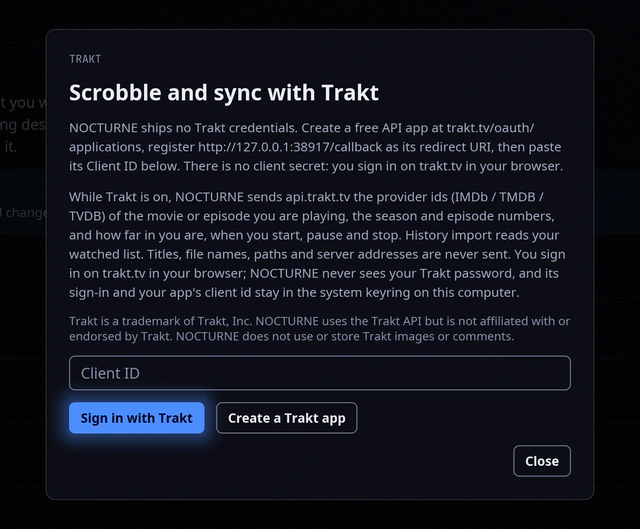
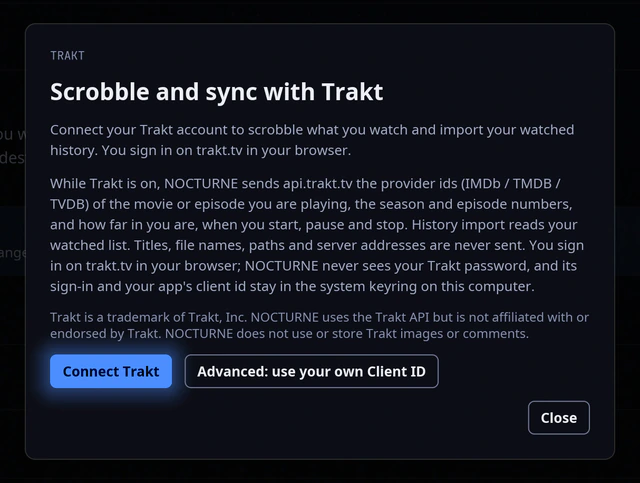
Website: 0.5 captures for Your look (Themes, Marquee, Feed, Server UI, Sections) and the default Trakt dialog
Adds 3840x2160 headless captures of Settings, Themes, Home under the Marquee and Feed examples, Home in Server UI with one server in the source filter, and the Sections editor as a close-up; replaces the Trakt close-up with the default dialog (Connect Trakt). Wires them into the Your look and Across services scenes and documents the capture setup in the README.

diff --git a/website/src/lib/components/Tour.svelte b/website/src/lib/components/Tour.svelte
@@ -59,7 +59,7 @@
 </script>
 
 <!-- Ten scenes. The first is the story (many sources, one library); the others are large stills from the app with
-     their copy set as a subtitle. 0.4 stills are 3840x2160 headless captures (see README). -->
+     their copy set as a subtitle. 0.4 and 0.5 stills are 3840x2160 headless captures (see README). -->
 <div id="tour">
   <section class="pb-[clamp(110px,14vw,220px)]" aria-labelledby="s0">
     <header class="reveal wrap mb-[clamp(32px,4vw,56px)] text-center"><span class="role">Scene 1</span><h2 id="s0" class="scene-title">One library</h2><Next class="mt-5 ml-0" /></header>
@@ -154,7 +154,7 @@
         <div class="rule pt-5"><dt class="role">{t}</dt><dd class="m-0 mt-3 text-ink-2">{d}{#if credit}<span class="mt-3 block text-sm text-ink-3">{credit}</span>{/if}</dd></div>
       {/each}
     </dl>
-    <figure class="reveal mx-auto mt-14 mb-0 w-[min(760px,100%-40px)]"><Shot name="trakt-crop" sizes={narrow} /><figcaption class="mt-4 text-center text-sm text-ink-2">Trakt's advanced option: your own Trakt app's Client ID, then a sign-in in your browser. By default the dialog shows one button, Connect Trakt.</figcaption></figure>
+    <figure class="reveal mx-auto mt-14 mb-0 w-[min(760px,100%-40px)]"><Shot name="trakt-crop" sizes={narrow} /><figcaption class="mt-4 text-center text-sm text-ink-2">Connect Trakt: one click, then a sign-in on trakt.tv in your browser. Your own Trakt app's Client ID stays an advanced option.</figcaption></figure>
   </section>
 
   <section class="pb-[clamp(110px,14vw,220px)]" aria-labelledby="s4">
@@ -177,12 +177,21 @@
 
   <section class="pb-[clamp(110px,14vw,220px)]" aria-labelledby="s9">
     <header class="reveal wrap mb-[clamp(32px,4vw,56px)] text-center"><span class="role">Scene 9</span><h2 id="s9" class="scene-title">Your look</h2><Next v="0.5.0" class="mt-5 ml-0" /></header>
+    <div class="reveal mx-auto w-[min(1320px,100%-40px)]"><Shot name="themes" sizes={framed} /></div>
     <p class="subtitle">Themes are CSS that NOCTURNE reads itself and draws natively, with no browser inside. They restyle NOCTURNE's own parts, in Settings, Themes.</p>
+    <div class="stagger mx-auto mt-[clamp(56px,7vw,96px)] grid w-[min(1520px,100%-40px)] gap-6 md:grid-cols-2">
+      <figure class="m-0"><Shot name="marquee" sizes={two} /><figcaption class="mt-4 text-sm text-ink-2">Marquee: a billboard under a see-through header and wide carousels without captions.</figcaption></figure>
+      <figure class="m-0"><Shot name="feed" sizes={two} /><figcaption class="mt-4 text-sm text-ink-2">Feed: no billboard, a grid of thumbnails with the title and details below.</figcaption></figure>
+    </div>
     <dl class="stagger mx-auto mt-14 grid w-[min(1000px,100%-40px)] gap-x-14 gap-y-10 md:grid-cols-2">
       {#each look as [t, d]}
         <div class="rule pt-5"><dt class="role">{t}</dt><dd class="m-0 mt-3 text-ink-2">{d}</dd></div>
       {/each}
     </dl>
+    <div class="stagger wrap mt-[clamp(56px,7vw,96px)] grid gap-x-8 gap-y-12 md:grid-cols-[minmax(0,3fr)_minmax(0,2fr)] md:items-end">
+      <figure class="m-0"><Shot name="server-ui" sizes={left} /><figcaption class="mt-4 text-sm text-ink-2">Server UI: with Living room alone in the source filter, Home follows that server's layout.</figcaption></figure>
+      <figure class="m-0"><Shot name="sections-crop" sizes={right} /><figcaption class="mt-4 text-sm text-ink-2">Settings, Sources, Sections: the server's home sections for your account, editable once server changes are on.</figcaption></figure>
+    </div>
     <p class="mx-auto mt-10 mb-0 w-[min(1000px,100%-40px)] text-sm text-ink-3">Not arbitrary web CSS: each page keeps its structure, and a Jellyfin web theme applies only partly, mostly its colours, radii and font. Letter spacing is read but not drawn; density, type size and backdrop blur are applied approximately.</p>
   </section>
 

diff --git a/website/src/lib/site.js b/website/src/lib/site.js
@@ -66,7 +66,12 @@ const ALT = {
   "smart-menu-crop": "The Smart menu in the header: Unwatched 4K movies, Added this week, Unwatched shows, Continue watching, Top rated not watched, Manage smart collections",
   "downloads-crop": "The Downloads panel: Northbound Lights downloading, 50 MB of 417 MB, with Pause and Cancel",
   "hdr-crop": "The HDR question in the player: Play here in SDR, or Open in HDR pop-out window, with Remember my choice",
-  "trakt-crop": "The Trakt dialog with your own Client ID: what is sent, an empty Client ID field, Sign in with Trakt and Create a Trakt app",
+  "trakt-crop": "The Trakt dialog: what is sent to Trakt, then Connect Trakt and Advanced: use your own Client ID",
+  themes: "Settings, Themes: the examples Marquee and Feed, the saved themes with Marquee active, a theme per server, and the Marquee stylesheet in the editor",
+  marquee: "Home with the Marquee theme: a full-bleed billboard under a see-through header, a red accent and wide thumbnails without captions",
+  feed: "Home with the Feed theme: no billboard, Continue watching as a grid of thumbnails with the title and details below",
+  "server-ui": "Home in the server's layout with only Living room in the source filter: the billboard, then the server's My media row of its libraries",
+  "sections-crop": "Home of Living room: the server's home sections, each with On or Off and up and down arrows, view-only until server changes are on",
 };
 // Image props for one screenshot: src (largest), srcset, intrinsic size and alt, so layout never shifts.
 export function shot(key) {

diff --git a/website/scripts/make-assets.py b/website/scripts/make-assets.py
@@ -18,7 +18,7 @@ WIDTHS = (640, 1280, 1920, 2560, 3840)
 # The full-bleed stills are up to 1680 css px (3360 px at 2x), so they keep the native 3840.
 MAX_W = {"01-home": 3840, "06-playback": 3840}
 DEFAULT_MAX = 2560
-SKIP_FULL = {"picker", "05-search", "03-movie-detail", "smart-menu", "downloads", "hdr", "trakt"}  # close-ups only
+SKIP_FULL = {"picker", "05-search", "03-movie-detail", "smart-menu", "downloads", "hdr", "trakt", "sections"}  # close-ups only
 
 # Close-ups, as fractions (x0, y0, x1, y1) of the capture so they do not depend on its resolution, plus the widest
 # variant. Framed on the 3840x2160 captures; check by eye after a recapture (open sized/*-crop-*.webp).
@@ -42,8 +42,11 @@ CROPS = {
     "downloads-crop": ("downloads", (0.30, 0.30, 0.70, 0.70), 1536),
     # the HDR question in the player, 16:9
     "hdr-crop": ("hdr", (0.30, 0.30, 0.70, 0.70), 1536),
-    # the Trakt dialog over Settings (not signed in)
-    "trakt-crop": ("trakt", (0.33, 0.25, 0.67, 0.75), 1536),
+    # the default Trakt dialog over Settings (not signed in): Connect Trakt, the advanced own-Client-ID option
+    "trakt-crop": ("trakt", (0.342, 0.288, 0.658, 0.712), 1536),
+    # 0.5 captures (same setup)
+    # the Sections editor of one server (Settings, Sources), view-only while server changes are off
+    "sections-crop": ("sections", (0.355, 0.19, 0.645, 0.81), 1280),
 }
 
 

diff --git a/website/README.md b/website/README.md
@@ -2,7 +2,7 @@
 
 Static site for `nocturne.ifsvivek.in`: SvelteKit (Svelte 5, `adapter-static`, every page prerendered with `csr = false`, so no JavaScript ships) and Tailwind CSS v4, served by a Cloudflare Worker with static assets. One self-hosted font, no third-party requests.
 
-- `src/routes/` pages (`/`, `/repo`, `/privacy`, `/404`). `/repo` is the package repository page: the pacman steps (key import, the `pacman.conf` block, install) and the signing key's fingerprint, kept in one place at the top of `repo/+page.svelte` so a change to the key or the `SigLevel` line is one edit; the tests check the exact text. The repository files themselves are generated into the git-ignored `static/repo/` at deploy time, and `_headers` gives them their own `Cache-Control` (databases, signatures and the key `no-cache`; packages and their signatures immutable for a year), detaching the site-wide value and keeping `no-transform`. The home page is built as a film: Hero (the opening, letterbox bars around the app playing a film, then opening credits), Tour (ten scenes: One library, then Browse, Details, Playback, Living room, Across services, Profiles, Settings, Your look (themes and Server UI, text only until there are captures), Admin; One library is a procedural figure of the sources running into one slit of light, echoing the app's startup screen, the others a large still from the app each, copy set as a subtitle), How ("Behind the scenes": the player window as three real layers), Safety (a film rating card, "Read-only", your files never touched, plus the real setting), Install ("Coming soon to Linux", requirements as technical specifications), Faq, Limits ("Not in this cut") and Footer (end credits). `src/app.css` holds the tokens, credit typography, film grain and all motion.
+- `src/routes/` pages (`/`, `/repo`, `/privacy`, `/404`). `/repo` is the package repository page: the pacman steps (key import, the `pacman.conf` block, install) and the signing key's fingerprint, kept in one place at the top of `repo/+page.svelte` so a change to the key or the `SigLevel` line is one edit; the tests check the exact text. The repository files themselves are generated into the git-ignored `static/repo/` at deploy time, and `_headers` gives them their own `Cache-Control` (databases, signatures and the key `no-cache`; packages and their signatures immutable for a year), detaching the site-wide value and keeping `no-transform`. The home page is built as a film: Hero (the opening, letterbox bars around the app playing a film, then opening credits), Tour (ten scenes: One library, then Browse, Details, Playback, Living room, Across services, Profiles, Settings, Your look (the Themes page, Home with the Marquee and Feed examples, Server UI and its Sections editor), Admin; One library is a procedural figure of the sources running into one slit of light, echoing the app's startup screen, the others a large still from the app each, copy set as a subtitle), How ("Behind the scenes": the player window as three real layers), Safety (a film rating card, "Read-only", your files never touched, plus the real setting), Install ("Coming soon to Linux", requirements as technical specifications), Faq, Limits ("Not in this cut") and Footer (end credits). `src/app.css` holds the tokens, credit typography, film grain and all motion.
 - Look: true black, projector-white type, wide-tracked uppercase for titles and credits, the app's blue only for links, focus and the one marker on the OFF switch. Stills have a hairline edge and 3 px corners, no glows.
 - Type: Geist variable (SIL OFL 1.1, licence in `src/lib/fonts/OFL.txt`), latin subset woff2 from the Fontsource package, `font-display: swap`, preloaded from `+layout.svelte`; Vite hashes it into `_app/immutable/`. Code uses the system monospace.
 - Motion is CSS only and limited to five ideas: the opening screen opens and the title settles, the credits and scenes roll in on scroll, the One library figure assembles on scroll (an SVG mask wipes the source beams in, then the moonlight slit opens and the flare line runs out to "One library"), the playback scene's letterbox opens, and Behind the scenes loops on a 12 s timer (the player window folds flat, then splits into video, window and controls layers with labels; hover pauses it). A focus ring also locks onto the real OFF switch. Content is visible by default: scroll-driven parts sit inside `@supports (animation-timeline: view())` and everything is static under `prefers-reduced-motion`. Avoid `filter` in text keyframes (headless Chrome left blurred text unpainted), write `animation-*` longhands when there is no name in the shorthand (the minifier turns a nameless shorthand into `animation: none`), and keep 3D labels out of elements with `mix-blend-mode` (it flattens `preserve-3d`). Do not draw SVG lines with `stroke-dashoffset` when they use `vector-effect: non-scaling-stroke` and `pathLength`: Chrome computes the dashes in screen space and a second dash shows; the One library figure uses a mask wipe instead.
@@ -19,9 +19,11 @@ The page can describe the next version while `VERSION` still names the one you c
 
 ## Screenshots and images
 
-Full-size captures live in `src/lib/screens/*.webp`: 3840x2160 (16:9, scale-2 fullscreen), lossy WebP q97, `NN-name` mapping to the keys in `src/lib/site.js` (`shot("home")`, alt text there). They are sources only and are not bundled. `python3 scripts/make-assets.py` (needs Pillow; uses ImageMagick `magick` for sharp-YUV encoding when present) rebuilds `src/lib/screens/sized/NAME-W.webp` at 640/1280/1920/2560 px and the native 3840 (never upscaled), WebP q92 method 6. Widths are capped by slot: home and playback (full-bleed, up to 1680 css px) go to 3840, the framed stills to 2560, close-ups to what their slot needs. Close-ups (search palette, the server-changes setting with its OFF switch, the "Who's watching?" tiles, the player video and control bar, the Versions and sources picker) are cut from the captures with boxes given as fractions in `CROPS`, so they survive a resolution change; look at them after a recapture. The script also rebuilds `static/og.jpg` (1200x630, drawn at 2x, q90, about 75 kB so WhatsApp-style 300 kB limits are met). `picker.webp`, `05-search.webp` and `03-movie-detail.webp` are only used through their close-ups, so no full-frame variants are made. The source filter is the All sources button in the header; it shows in the home and library stills and has no close-up of its own.
+Full-size captures live in `src/lib/screens/*.webp`: 3840x2160 (16:9, scale-2 fullscreen), lossy WebP q97, `NN-name` mapping to the keys in `src/lib/site.js` (`shot("home")`, alt text there). They are sources only and are not bundled. `python3 scripts/make-assets.py` (needs Pillow; uses ImageMagick `magick` for sharp-YUV encoding when present) rebuilds `src/lib/screens/sized/NAME-W.webp` at 640/1280/1920/2560 px and the native 3840 (never upscaled), WebP q92 method 6. Widths are capped by slot: home and playback (full-bleed, up to 1680 css px) go to 3840, the framed stills to 2560, close-ups to what their slot needs. Close-ups (search palette, the server-changes setting with its OFF switch, the "Who's watching?" tiles, the player video and control bar, the Versions and sources picker, the Trakt dialog, the Sections editor) are cut from the captures with boxes given as fractions in `CROPS`, so they survive a resolution change; look at them after a recapture. The script also rebuilds `static/og.jpg` (1200x630, drawn at 2x, q90, about 75 kB so WhatsApp-style 300 kB limits are met). `picker.webp`, `05-search.webp`, `03-movie-detail.webp`, `trakt.webp` and `sections.webp` (with the other close-up sources in `SKIP_FULL`) are only used through their close-ups, so no full-frame variants are made. The source filter is the All sources button in the header; it shows in the home and library stills and has no close-up of its own.
 
 0.4 adds `13-couch` (Living room), `14-smart` (One library) and the close-up sources `smart-menu`, `downloads`, `hdr` and `trakt`, and replaces `11-local-folders` (now with the online-details credits). They are **3840x2160** captures (`NOCTURNE_SNAP_WATCH`, the window's own pixels) of a debug build driven only by the `NOCTURNE_KEYS` / `NOCTURNE_PAD` / `NOCTURNE_PREVIEW*` hooks, fullscreen in an invisible headless sway (`scripts/headless-session.sh start 3840x2160`, output scale 2, so the app lays out at 1920x1080 like the other scale-2 shots), against two throwaway demo servers (`scripts/make-demo-library.sh` with `NOCTURNE_DEMO_DIR` and `NOCTURNE_JF_TEST_PORT` set per server, sources labelled Living room and Study) and a local folder of four demo movies; the Downloads shot streams a 4-hour, 416 MB demo file through a loopback proxy capped at 10 MB/s so the transfer is still running, and the HDR shot is the player preview on a synthetic 11-second HDR10 clip. The 0.3 "Versions and sources" close-up stays (same dialog in 0.4, sharper). The 0.3 captures are from the 0.3 (Iced) build: `09-first-run` (setup, Where is your media?), `10-sources`, `11-local-folders` (One library) and `12-loading` (the video loading overlay, in Playback and the OG image) joined the earlier set.
+
+0.5 adds `15-themes` (Settings, Themes with Marquee active and Feed saved), `16-marquee` and `17-feed` (Home under the built-in examples from `crates/core/src/customize/examples/`), `18-server-ui` (Home with Server UI on for Living room and only Living room in the source filter) and the close-up source `sections` (the Sections editor of Living room, view-only because server changes are off), and replaces `trakt` with the default dialog (Connect Trakt, the own Client ID as the advanced option). Same setup as 0.4: a debug build in a headless sway at 3840x2160, scale 2, fullscreen, captured with `NOCTURNE_SNAP_WATCH`, two demo servers renamed Living room and Study, no local folder. Navigation is `NOCTURNE_KEYS` only (`open-settings`, `open-trakt`, `open-themes`, `theme-path` with `NOCTURNE_THEME_FILE`, `theme-import`, `theme-apply`, `cycle-filter`, `open-sources`, `sections-1`); the theme files were copied to `/tmp/Marquee.css` and `/tmp/Feed.css` first so the file field never shows a home directory. Server UI was switched on in the run's `sources.toml` (`server_ui = true`), and the saved themes in `themes.toml`, because there is no key hook for those; sign-in went through the setup screens with synthetic keys.
 
 AVIF was measured against WebP q92 (3840 px: playback 879 vs 934 kB, home 286 vs 329 kB, at equal or lower PSNR and softer UI text) and not adopted: under 15 percent smaller does not justify a `<picture>` fallback. The opening still loads eagerly with `fetchpriority=high`; all others are lazy, every `<img>` has width and height, and `sizes` in `Tour.svelte` mirror the real slot widths.
 
